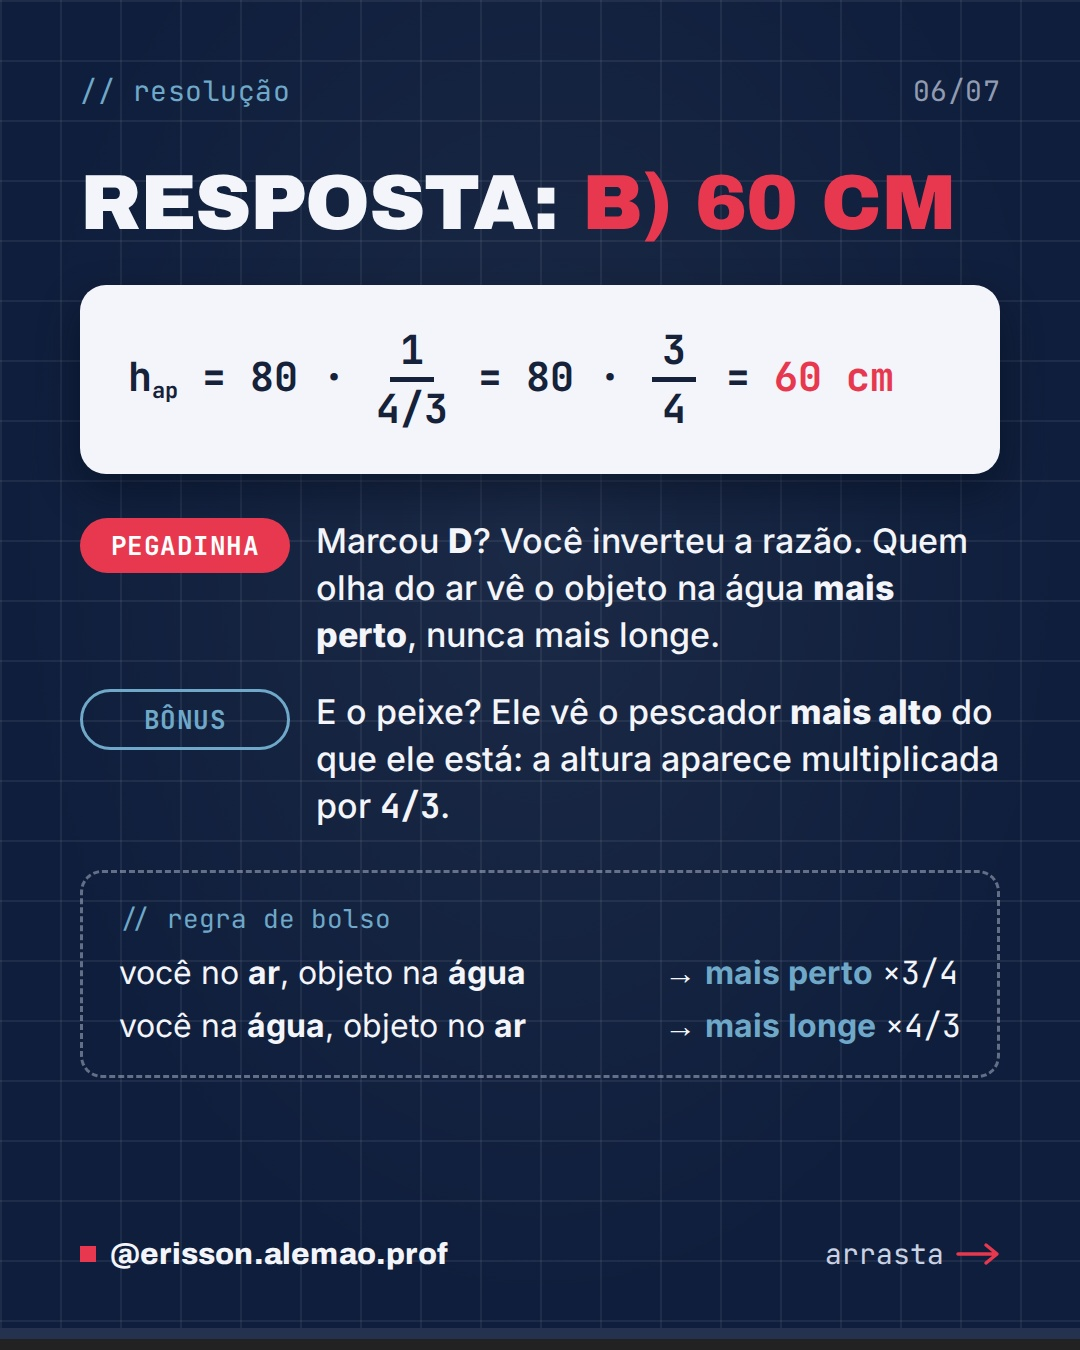
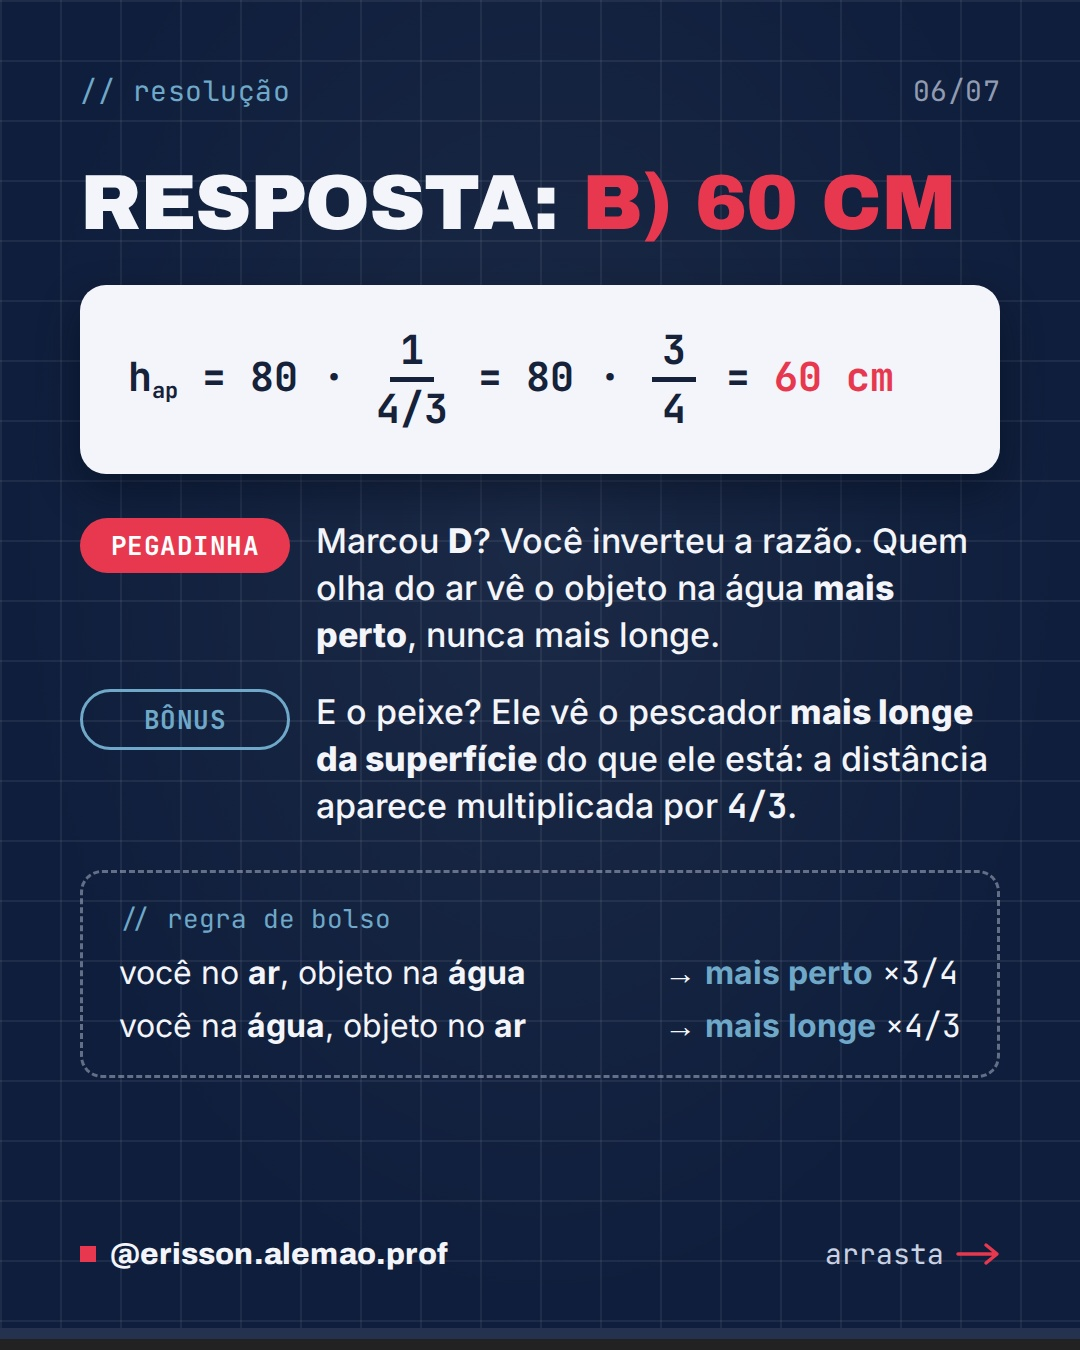
Apply physics and writing review to Instagram posts
- refração: define refraction as change of speed (deviation only when oblique);
  clarify apparent distance in the bonus
- choque: 'dias secos' instead of 'inverno', electrons transfer (not 'trocaram'),
  'pode eletrizar', clearer discharge sentence, tighter question stem
- fórmulas: precise Torricelli tip; 'para o ENEM'
- standard-Portuguese imperatives on images; skill documents both rules

Claude-Session: https://claude.ai/code/session_017LzoVfwMgSzSStHM9HLx79

Changed region(s): [[0.275, 0.4978, 0.9167, 0.6222]]

diff --git a/instagram/2026-09-30/choque.html b/instagram/2026-09-30/choque.html
@@ -88,7 +88,7 @@
       <circle cx="620" cy="160" r="20" fill="#3E6FA8"/><text x="620" y="170">−</text>
     </g>
   </svg>
-  <p class="body" style="margin-top:36px; font-size:37px;">Arrastar o pé no tapete, levantar do sofá, tirar a blusa de lã: tudo isso carrega o seu corpo.</p>
+  <p class="body" style="margin-top:36px; font-size:37px;">Arrastar o pé no tapete, levantar do sofá, tirar a blusa de lã: tudo isso pode eletrizar o seu corpo.</p>
   <p class="body" style="margin-top:22px; font-size:37px;">E a sola de borracha é <b>isolante</b>: a carga não escoa para o chão. <b>Fica em você.</b></p>
 </section>
 
@@ -110,7 +110,7 @@
       <span class="mono" style="font-size:46px; font-weight:700;">&lt; 1 milionésimo de s</span>
     </div>
   </div>
-  <p class="body" style="margin-top:44px; font-size:37px;">Por isso assusta, mas não machuca: a <b>quantidade de carga é minúscula</b> e acaba num instante.</p>
+  <p class="body" style="margin-top:44px; font-size:37px;">Por isso assusta, mas não machuca: a <b>carga é minúscula</b> e a descarga dura só um instante.</p>
 </section>
 
 <!-- 4 · DIAS SECOS -->
@@ -126,7 +126,7 @@
       <p style="font-size:33px; line-height:1.4; margin-top:16px;">Sem essa água, a carga <b>se acumula</b> até soltar de uma vez só.</p>
     </div>
   </div>
-  <p class="body" style="margin-top:40px; font-size:37px;">É por isso que o choque aparece mais no inverno e em lugares com ar-condicionado.</p>
+  <p class="body" style="margin-top:40px; font-size:37px;">É por isso que o choque aparece mais em dias secos e em lugares com ar-condicionado.</p>
   <div style="margin-top:44px; border:3px dashed rgba(201,209,227,.45); border-radius:22px; padding:30px 36px;">
     <div class="mono" style="font-size:26px; color:var(--blue); margin-bottom:12px;">// dica anti-choque</div>
     <p class="body" style="font-size:35px;">Encoste antes uma <b>chave ou moeda</b> na maçaneta. A faísca salta do metal, e não do seu dedo.</p>
@@ -139,7 +139,7 @@
     <span class="chip">DESAFIO</span><span class="chip ghost">estilo ENEM</span>
   </div>
   <div class="card" style="margin-top:36px;">
-    <p style="font-size:38px; line-height:1.42; font-weight:500;">Uma pessoa arrasta os pés sobre um tapete de lã e, ao tocar a maçaneta metálica, leva um pequeno choque. O processo que deixou a pessoa <b>eletrizada</b> foi a eletrização por:</p>
+    <p style="font-size:38px; line-height:1.42; font-weight:500;">Uma pessoa arrasta os pés sobre um tapete de lã e, ao tocar a maçaneta metálica, leva um pequeno choque. A pessoa ficou <b>eletrizada</b> por:</p>
     <div class="opts">
       <div><b>A)</b> indução</div>
       <div><b>B)</b> atrito</div>
@@ -148,13 +148,13 @@
       <div><b>E)</b> polarização</div>
     </div>
   </div>
-  <p class="body" style="margin-top:48px; font-size:42px; text-align:center;"><b>Comenta a letra</b> antes de ver a resposta</p>
+  <p class="body" style="margin-top:48px; font-size:42px; text-align:center;"><b>Comente a letra</b> antes de ver a resposta</p>
 </section>
 
 <!-- 6 · RESPOSTA + CTA -->
 <section class="slide" data-eyebrow="// resolução">
   <h2 style="margin-top:56px; font-size:74px;">Letra <em>B</em>: atrito</h2>
-  <p class="body" style="margin-top:36px; font-size:37px;">O tapete e a sola trocaram elétrons ao se esfregarem. O choque é a <b>descarga</b>: a carga acumulada passa para a maçaneta, que é condutora.</p>
+  <p class="body" style="margin-top:36px; font-size:37px;">Ao se esfregarem, elétrons passaram de um material para o outro. O choque é a <b>descarga</b>: a carga acumulada passa para a maçaneta, que é condutora.</p>
   <div class="cta" style="margin-top:56px;">
     <div><svg viewBox="0 0 48 48" width="76" height="76"><use href="#icon-save"/></svg><p class="body" style="font-size:38px;"><b>Salve</b> para revisar eletrostática</p></div>
     <div><svg viewBox="0 0 48 48" width="76" height="76"><use href="#icon-send"/></svg><p class="body" style="font-size:38px;"><b>Envie</b> para quem vive levando choque na porta do carro</p></div>

diff --git a/instagram/2026-09-29-refracao-lapis/refracao.html b/instagram/2026-09-29-refracao-lapis/refracao.html
@@ -110,7 +110,7 @@
 <section class="slide" id="s2">
   <div class="top"><span>// o que está acontecendo</span><span class="count">02/07</span></div>
   <h2 style="margin-top:70px;">Spoiler: o lápis está inteiro.<br>Quem muda de caminho é a <em>luz</em>.</h2>
-  <p class="body" style="margin-top:56px;">A luz viaja <b>mais devagar na água</b> do que no ar. Quando ela atravessa a fronteira entre os dois meios, <span class="hl">muda de direção</span>.</p>
+  <p class="body" style="margin-top:56px;">A luz viaja <b>mais devagar na água</b> do que no ar. Ao passar de um meio para o outro, ela <span class="hl">muda de velocidade</span>. Se chegar inclinada, muda também de direção.</p>
   <p class="body" style="margin-top:28px;">Esse fenômeno se chama <b style="color:var(--red)">REFRAÇÃO</b>.</p>
   <div class="card" style="margin-top:60px; display:flex; align-items:center; justify-content:space-between; gap:40px;">
     <div class="formula" style="font-size:76px;">n = <span class="frac"><span>c</span><span>v</span></span></div>
@@ -226,7 +226,7 @@
       <div style="display:flex; gap:22px; align-items:center;"><span class="mono" style="color:var(--red); font-weight:700;">E)</span> 1,20 m</div>
     </div>
   </div>
-  <p class="body" style="margin-top:56px; font-size:42px; text-align:center;"><b>Comenta a letra</b> antes de ver a resposta</p>
+  <p class="body" style="margin-top:56px; font-size:42px; text-align:center;"><b>Comente a letra</b> antes de ver a resposta</p>
   <div class="foot">
     <span class="brand handle">@erisson.alemao.prof</span>
     <span class="swipe">resposta <svg viewBox="0 0 44 24"><path d="M2 12 H40 M30 3 L41 12 L30 21" fill="none" stroke="#E8384F" stroke-width="3.5" stroke-linecap="round" stroke-linejoin="round"/></svg></span>
@@ -247,7 +247,7 @@
     </div>
     <div style="display:flex; gap:26px;">
       <span class="chip ghost w" style="flex:none; height:fit-content;">BÔNUS</span>
-      <p class="body" style="font-size:34px;">E o peixe? Ele vê o pescador <b class="blue">mais alto</b> do que ele está: a altura aparece multiplicada por <span class="mono" style="font-weight:700;">4/3</span>.</p>
+      <p class="body" style="font-size:34px;">E o peixe? Ele vê o pescador <b class="blue">mais longe da superfície</b> do que ele está: a distância aparece multiplicada por <span class="mono" style="font-weight:700;">4/3</span>.</p>
     </div>
   </div>
   <div style="margin-top:40px; border:3px dashed rgba(201,209,227,.45); border-radius:22px; padding:28px 36px;">
@@ -266,7 +266,7 @@
 <!-- ============ 7 · CTA ============ -->
 <section class="slide" id="s7">
   <div class="top"><span>// reta final do ENEM</span><span class="count">07/07</span></div>
-  <h2 style="margin-top:64px; font-size:96px;">Refração <em>cai</em>.<br>Não deixa passar.</h2>
+  <h2 style="margin-top:64px; font-size:96px;">Refração <em>cai</em>.<br>Não deixe passar.</h2>
   <div style="margin-top:64px; display:grid; gap:44px;">
     <div style="display:flex; gap:32px; align-items:center;">
       <svg viewBox="0 0 48 48" width="84" height="84" style="flex:none;"><path d="M12 6 H36 V42 L24 33 L12 42 Z" fill="none" stroke="#E8384F" stroke-width="4" stroke-linejoin="round"/></svg>

diff --git a/instagram/2026-09-30/formulas.html b/instagram/2026-09-30/formulas.html
@@ -17,7 +17,7 @@
 
 <!-- 1 · CAPA -->
 <section class="slide" data-eyebrow="// física · revisão ENEM">
-  <h1 style="margin-top:48px; font-size:84px;">As fórmulas de Física que você <em>precisa</em> saber pro ENEM</h1>
+  <h1 style="margin-top:48px; font-size:84px;">As fórmulas de Física que você <em>precisa</em> saber para o ENEM</h1>
   <div style="margin-top:56px; display:grid; gap:18px;">
     <div class="card" style="display:flex; justify-content:space-between; align-items:center; padding:26px 40px;"><span style="font-size:36px; font-weight:700;">Cinemática</span><span class="mono" style="font-size:30px; color:var(--ink-soft);">02</span></div>
     <div class="card" style="display:flex; justify-content:space-between; align-items:center; padding:26px 40px;"><span style="font-size:36px; font-weight:700;">Dinâmica e Energia</span><span class="mono" style="font-size:30px; color:var(--ink-soft);">03</span></div>
@@ -42,7 +42,7 @@
   </div>
   <div style="margin-top:44px; border:3px dashed rgba(201,209,227,.45); border-radius:22px; padding:28px 36px;">
     <div class="mono" style="font-size:26px; color:var(--blue); margin-bottom:10px;">// dica de prova</div>
-    <p class="body" style="font-size:36px;">O enunciado não dá o tempo? Vá de <b>Torricelli</b>: é a única que não usa t.</p>
+    <p class="body" style="font-size:36px;">Sem tempo nos dados nem na pergunta? Use <b>Torricelli</b>, a única equação sem t.</p>
   </div>
 </section>
 

diff --git a/instagram/2026-09-30/gauss.html b/instagram/2026-09-30/gauss.html
@@ -18,7 +18,7 @@
   </div>
   <div style="margin-top:56px; display:flex; align-items:center; justify-content:center; gap:26px;">
     <svg viewBox="0 0 60 60" width="70" height="70"><circle cx="30" cy="34" r="22" fill="none" stroke="#F3F5FA" stroke-width="4"/><path d="M30 34 V20 M24 6 H36" stroke="#E8384F" stroke-width="4" stroke-linecap="round"/></svg>
-    <p class="body" style="font-size:40px;"><b>Comenta seu resultado</b> antes de arrastar</p>
+    <p class="body" style="font-size:40px;"><b>Comente seu resultado</b> antes de arrastar</p>
   </div>
 </section>
 
@@ -67,7 +67,7 @@
   <p class="body" style="margin-top:40px; font-size:37px;">Vale para qualquer progressão aritmética: <b>primeiro + último, vezes a quantidade de termos, dividido por 2.</b></p>
   <div style="margin-top:44px; border:3px dashed rgba(201,209,227,.45); border-radius:22px; padding:30px 36px;">
     <div class="mono" style="font-size:26px; color:var(--blue); margin-bottom:12px;">// desafio bônus</div>
-    <p class="body" style="font-size:40px;">Quanto dá <span class="mono" style="font-weight:700;">1 + 2 + 3 + … + 200</span>? <b>Comenta!</b></p>
+    <p class="body" style="font-size:40px;">Quanto dá <span class="mono" style="font-weight:700;">1 + 2 + 3 + … + 200</span>? <b>Comente!</b></p>
   </div>
 </section>
 

diff --git a/instagram/_modelo/modelo.html b/instagram/_modelo/modelo.html
@@ -69,7 +69,7 @@
   </div>
 </section>
 
-<!-- ===== TIPO 5 · DESAFIO estilo ENEM (sempre com "Comenta a letra") ===== -->
+<!-- ===== TIPO 5 · DESAFIO estilo ENEM (sempre com "Comente a letra") ===== -->
 <section class="slide" data-eyebrow="// sua vez" data-swipe="resposta">
   <div style="margin-top:48px; display:flex; gap:16px; align-items:center;">
     <span class="chip">DESAFIO</span><span class="chip ghost">estilo ENEM</span>
@@ -85,7 +85,7 @@
       <div><b>E)</b> [alternativa]</div>
     </div>
   </div>
-  <p class="body" style="margin-top:48px; font-size:42px; text-align:center;"><b>Comenta a letra</b> antes de ver a resposta</p>
+  <p class="body" style="margin-top:48px; font-size:42px; text-align:center;"><b>Comente a letra</b> antes de ver a resposta</p>
 </section>
 
 <!-- ===== TIPO 6 · RESPOSTA + PEGADINHA ===== -->

diff --git a/.claude/skills/post-instagram/SKILL.md b/.claude/skills/post-instagram/SKILL.md
@@ -14,6 +14,8 @@ Tom: português do Brasil, informal e direto nas legendas ("pra", "tá", "coment
 - **Não mencione o site nem "link na bio"** (o site Academia das Exatas ainda não está pronto). Só volte a citar quando o usuário disser que o site está no ar.
 - O rodapé com `@erisson.alemao.prof` e o contador de slides são automáticos (`chrome.js`). Não os escreva à mão.
 - Sem emoji dentro das imagens (as fontes não têm). Emoji só na legenda.
+- Texto das imagens na **norma padrão** ("Comente", "Salve", "Não deixe passar", "para o ENEM"). O tom informal ("comenta", "pra", "tá") fica só na legenda.
+- Rigor conceitual: prefira a definição que os vestibulares cobram. Exemplo: refração é a **mudança de velocidade** ao trocar de meio, e o desvio só ocorre com incidência oblíqua. Evite generalizações regionais ("no inverno") e verbos imprecisos ("trocaram elétrons" → "elétrons passaram de um material para o outro").
 - Índices com `<sub>` (ex.: `v<sub>0</sub>`), nunca com os caracteres ₀ ₁ ₂.
 - **Confira toda fórmula, número e resposta** antes de gerar. Nada de afirmação exagerada ou não verificável. Na dúvida, escreva de forma mais cautelosa.
 
@@ -21,7 +23,7 @@ Tom: português do Brasil, informal e direto nas legendas ("pra", "tá", "coment
 
 1. Capa: pergunta-gancho com a palavra-chave em `<em>` (vermelho) e uma ilustração SVG simples.
 2. Um a três slides de explicação, diagrama ou lista.
-3. Desafio estilo ENEM (alternativas A–E, "Comenta a letra antes de ver a resposta").
+3. Desafio estilo ENEM (alternativas A–E, "Comente a letra antes de ver a resposta").
 4. Resposta com pegadinha (o erro mais comum), a não ser que o post seja só uma lista.
 5. Chamada final: salvar, enviar, comentar e seguir.
 
